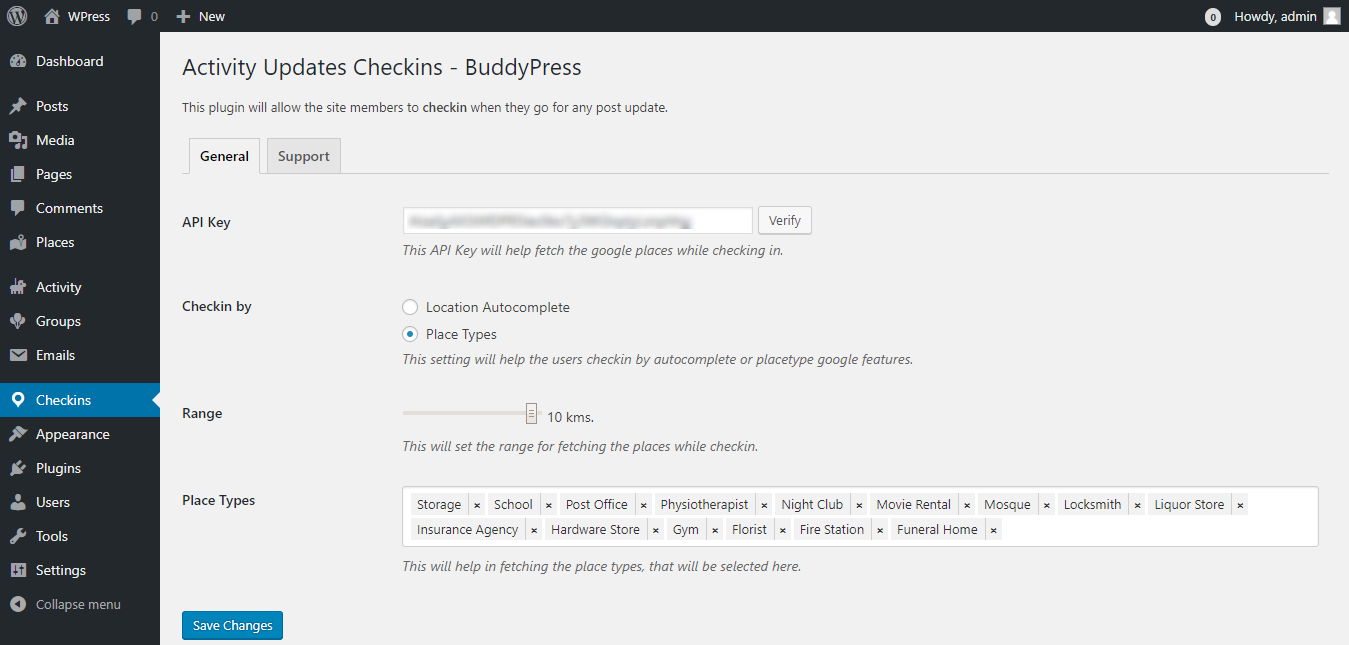
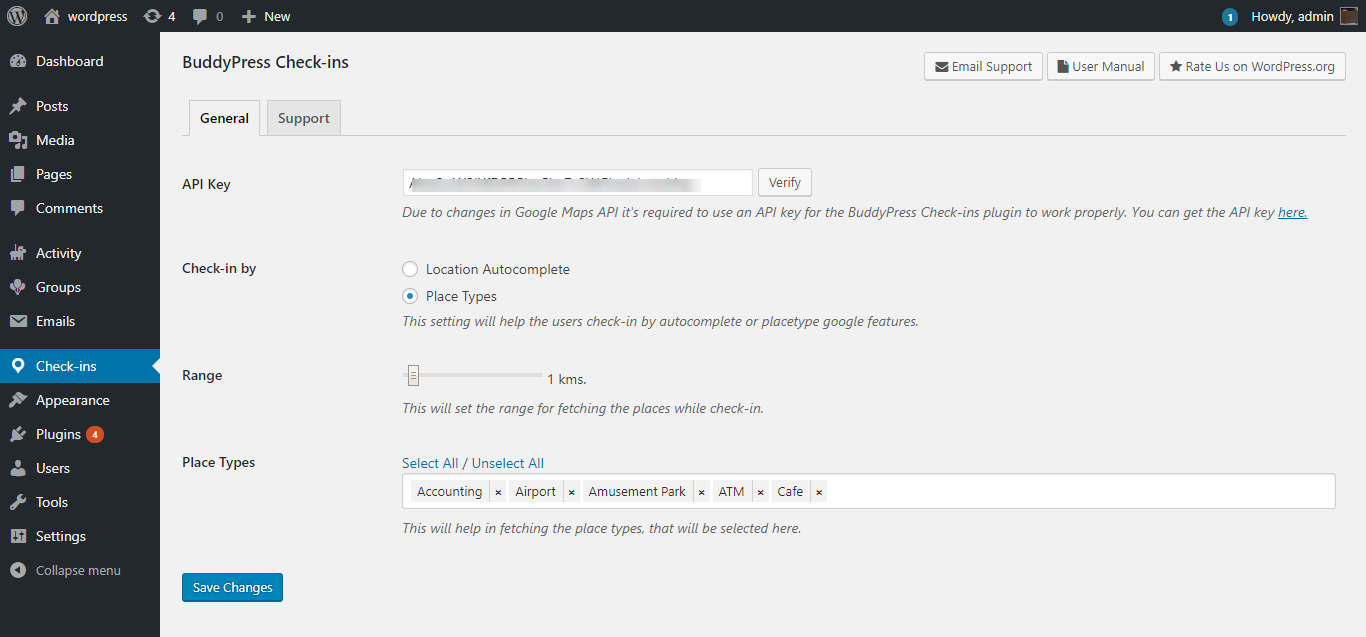
screenshot and readme update

diff --git a/public/css/bp-checkins-public.css b/public/css/bp-checkins-public.css
@@ -105,7 +105,7 @@ span.bpchk-allow-checkin {
 	height: 50px;
 	width: 50px;
 	text-align: center;
-	line-height: 50px;
+	/*line-height: 50px;*/
 	border-radius: 50%;
 	margin-right: 20px;
 	padding: 12px;

diff --git a/admin/includes/bp-checkins-support-settings.php b/admin/includes/bp-checkins-support-settings.php
@@ -9,9 +9,9 @@ if ( ! defined( 'ABSPATH' ) ) exit;
         <div id="bpchk-settings-tbl">
             <div class="bpchk-admin-row">
                 <div>
-                    <button class="bpchk-accordion"><?php _e( 'What plugin does this plugin require?', BPCHK_TEXT_DOMAIN );?></button>
+                    <button class="bpchk-accordion"><?php _e( 'Does This plugin requires BuddyPress ?', BPCHK_TEXT_DOMAIN );?></button>
                     <div class="panel">
-                        <p><?php _e( 'As the name of the plugin justifies, this plugin helps the site members to <strong>check-in, during their post updates</strong>, this plugin requires <strong>BuddyPress</strong> plugin to be installed and active.', BPCHK_TEXT_DOMAIN );?></p>
+                        <p><?php _e( 'Yes, It needs you to have BuddyPress installed and activated.', BPCHK_TEXT_DOMAIN );?></p>
                         <p><?php _e( 'You\'ll also get an admin notice and the plugin will become ineffective if the required plugin will not be there.', BPCHK_TEXT_DOMAIN );?></p>
                     </div>
                 </div>

diff --git a/bp-checkins.php b/bp-checkins.php
@@ -15,8 +15,8 @@
  * @wordpress-plugin
  * Plugin Name:       BuddyPress Checkin
  * Plugin URI:        https://wbcomdesigns.com/
- * Description:       This plugin adds extra feature to <strong>BuddyPress Activity</strong> updates allowing users to <strong>checkin their current location</strong>.
- * Version:           1.0.4
+ * Description:       This plugin adds extra feature to <strong>BuddyPress Activity</strong> updates allowing users to <strong>check-in their current location</strong>.
+ * Version:           1.0.5
  * Author:            Wbcom Designs
  * Author URI:        https://wbcomdesigns.com/
  * License:           GPL-2.0+
@@ -126,10 +126,4 @@ function bpchk_plugin_links( $links ) {
 		'<a href="https://wbcomdesigns.com/contact/" target="_blank">' . __( 'Support', BPCHK_TEXT_DOMAIN ) . '</a>'
 	);
 	return array_merge( $links, $bpchk_links );
-}
-
-function xxdebug( $result ) {
-	echo '<pre>';
-	print_r( $result );
-	echo '</pre>';
 }

diff --git a/admin/class-bp-checkins-admin.php b/admin/class-bp-checkins-admin.php
@@ -112,7 +112,7 @@ class Bp_Checkins_Admin {
 					<button type="button" class="button button-secondary" onclick="window.open('https://wbcomdesigns.com/helpdesk/article-categories/buddypress-checkins/', '_blank');"><i class="fa fa-file" aria-hidden="true"></i> <?php _e( 'User Manual', BPCHK_TEXT_DOMAIN )?></button>
 					<button type="button" class="button button-secondary" onclick="window.open('https://wordpress.org/support/plugin/bp-check-in/reviews/', '_blank');"><i class="fa fa-star" aria-hidden="true"></i> <?php _e( 'Rate Us on WordPress.org', BPCHK_TEXT_DOMAIN )?></button>
 				</div>
-				<h2 class="bpchk-plugin-heading"><?php _e( 'BuddyPress Checkin', BPCHK_TEXT_DOMAIN );?></h2>
+				<h2 class="bpchk-plugin-heading"><?php _e( 'BuddyPress Check-ins', BPCHK_TEXT_DOMAIN );?></h2>
 			</div>
 			<?php $this->bpchk_plugin_settings_tabs();?>
 			<?php do_settings_sections( $tab );?>

diff --git a/public/class-bp-checkins-public.php b/public/class-bp-checkins-public.php
@@ -86,7 +86,7 @@ class Bp_Checkins_Public {
 				$checkin_html	 .= '<div class="bp-checkins bp-checkin-panel">';
 				if ( $bp_checkins->checkin_by == 'autocomplete' ) {
 					$checkin_html	 .= '<div class="checkin-by-autocomplete">';
-					$checkin_html	 .= '<input type="text" id="bpchk-autocomplete-place" placeholder="' . __( 'Type in to checkin', BPCHK_TEXT_DOMAIN ) . '" />';
+					$checkin_html	 .= '<input type="text" id="bpchk-autocomplete-place" placeholder="' . __( 'Start typing your location...', BPCHK_TEXT_DOMAIN ) . '" />';
 					$checkin_html	 .= '<input type="hidden" id="bpchk-checkin-place-lat" />';
 					$checkin_html	 .= '<input type="hidden" id="bpchk-checkin-place-lng" />';
 					$checkin_html	 .= '<input type="checkbox" id="bpchk-add-as-place" checked />';
